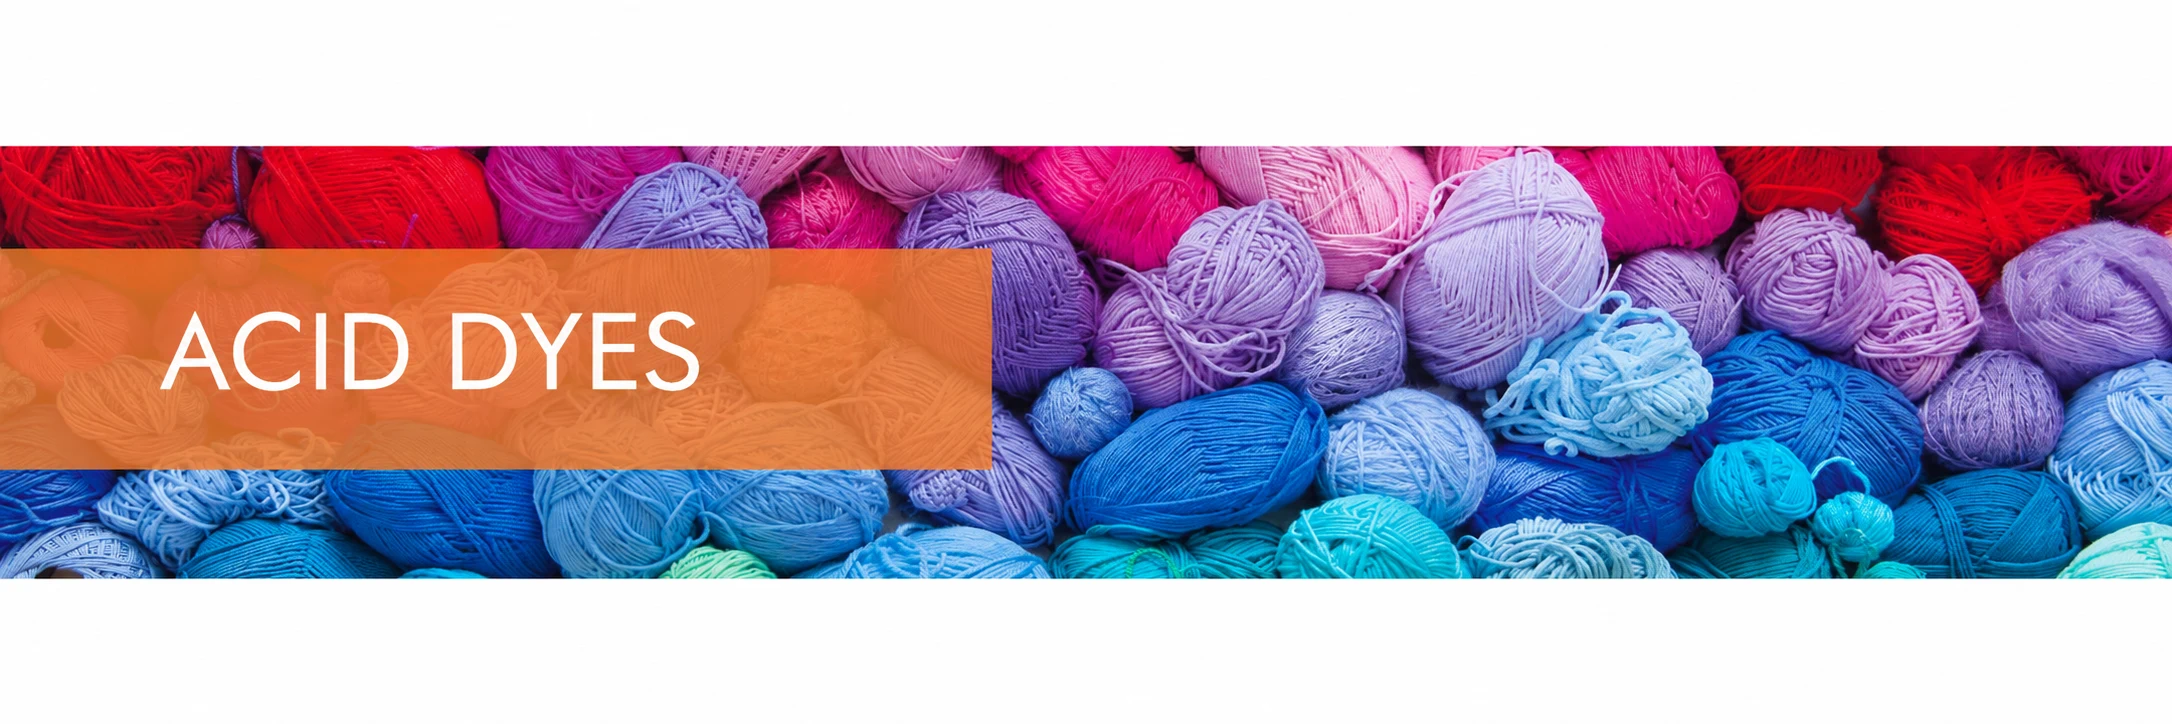
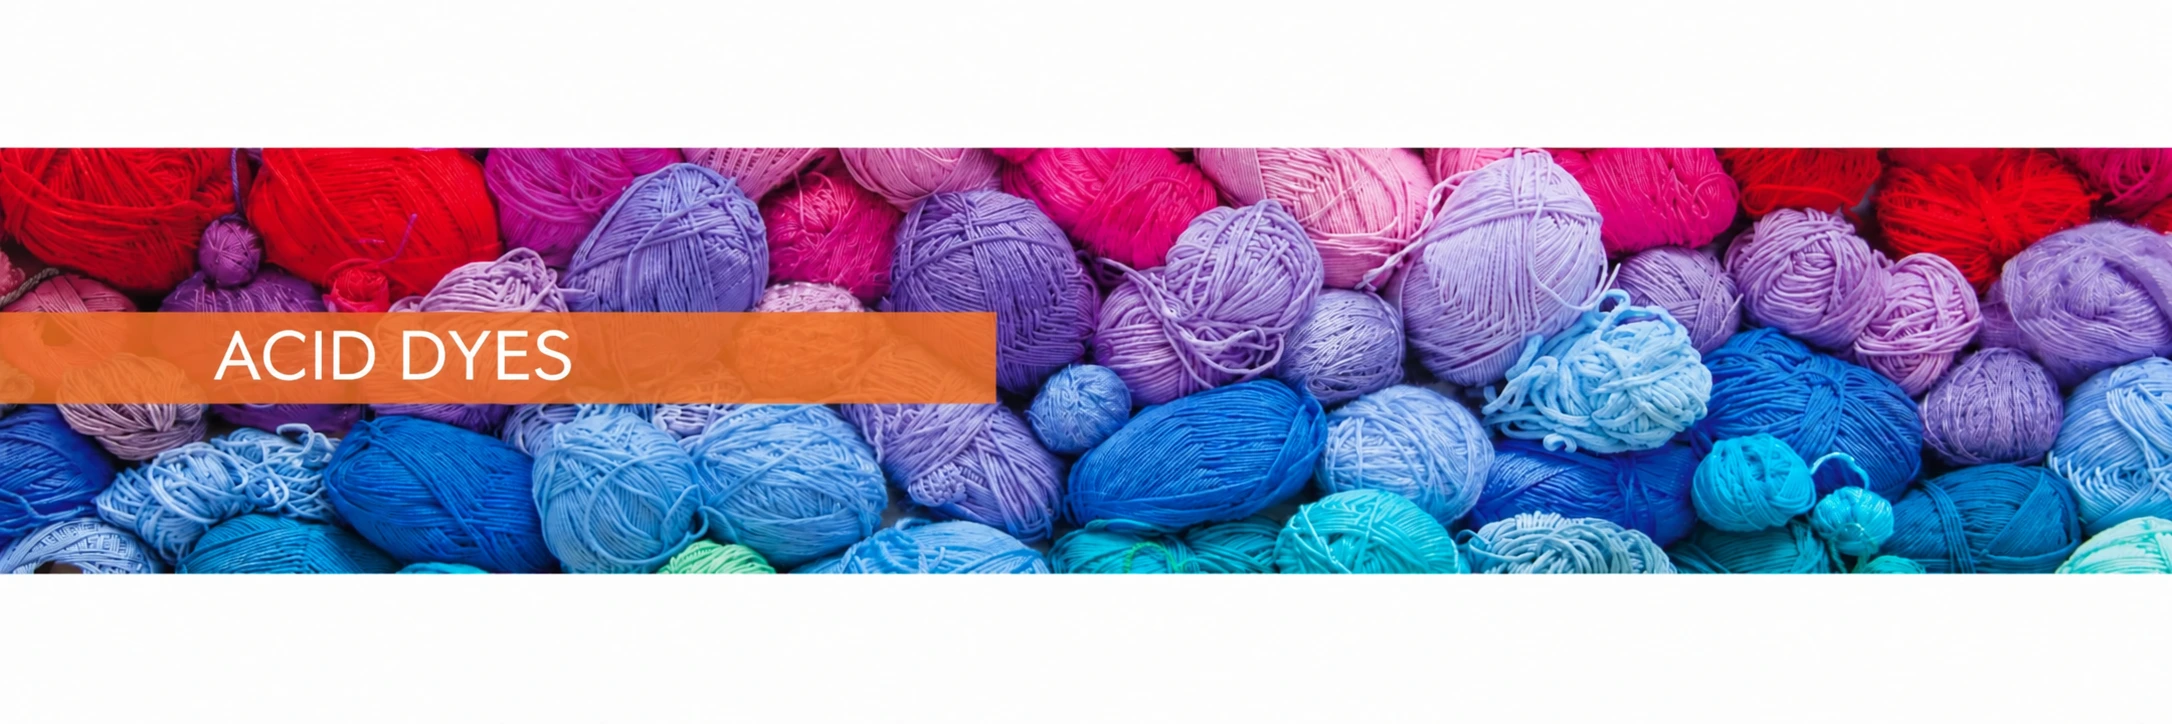
feat: add main stylesheet, product pages, images, and javascript assets

Changed region(s): [[0.0, 0.1823, 1.0, 0.8204], [0.9871, 0.3039, 1.0, 0.3343]]

diff --git a/pages/products/direct-dyes/index.html b/pages/products/direct-dyes/index.html
@@ -39,155 +39,7 @@
   <link rel="stylesheet" href="/assets/css/main.css?v=20261105" />
   <link rel="stylesheet" href="/assets/css/responsive.css?v=20261105" />
 
-  <!--
-<style>
-    /* UI Experiment: Direct Dyes Sustainability-Style Hero */
-    .direct-hero {
-      position: relative;
-      width: 100%;
-      min-height: 420px;
-      height: clamp(400px, 44vh, 480px);
-      display: flex;
-      align-items: center;
-      justify-content: center;
-      overflow: hidden;
-      background-color: #0b151b;
-      margin: 0;
-      padding: 0;
-    }
-
-    .direct-hero__media {
-      position: absolute;
-      top: 0;
-      left: 0;
-      width: 100%;
-      height: 100%;
-      z-index: 1;
-    }
-
-    .direct-hero__bg {
-      width: 100%;
-      height: 100%;
-      object-fit: cover;
-      object-position: center center;
-      display: block;
-      transform: scale(1.01);
-    }
-
-    .direct-hero__scrim {
-      position: absolute;
-      top: 0;
-      left: 0;
-      width: 100%;
-      height: 100%;
-      background: linear-gradient(
-        180deg,
-        rgba(10, 18, 26, 0.15) 0%,
-        rgba(10, 18, 26, 0.28) 50%,
-        rgba(10, 18, 26, 0.42) 100%
-      );
-      z-index: 2;
-      pointer-events: none;
-    }
-
-    .direct-hero__panel {
-      position: relative;
-      z-index: 3;
-      width: min(780px, calc(100% - 48px));
-      margin: 0 auto;
-      padding: 38px 48px;
-      background: rgba(14, 22, 30, 0.55);
-      -webkit-backdrop-filter: blur(10px);
-      backdrop-filter: blur(10px);
-      border: 1px solid rgba(255, 255, 255, 0.22);
-      border-radius: 6px;
-      box-shadow: 0 20px 48px rgba(0, 0, 0, 0.35);
-      text-align: center;
-      box-sizing: border-box;
-    }
-
-    .direct-hero__title {
-      font-family: var(--font-heading);
-      font-size: clamp(2rem, 3.2vw, 2.75rem);
-      font-weight: 700;
-      letter-spacing: 0.12em;
-      text-transform: uppercase;
-      color: #ffffff !important;
-      line-height: 1.2;
-      margin: 0 0 16px 0;
-      text-shadow: 0 2px 10px rgba(0, 0, 0, 0.5);
-    }
-
-    .direct-hero__apps {
-      display: flex;
-      flex-direction: column;
-      align-items: center;
-      gap: 6px;
-    }
-
-    .direct-hero__apps-label {
-      font-family: var(--font-heading);
-      font-size: 11px;
-      font-weight: 700;
-      letter-spacing: 0.18em;
-      text-transform: uppercase;
-      color: rgba(255, 255, 255, 0.82) !important;
-      margin: 0;
-    }
-
-    .direct-hero__apps-list {
-      font-family: var(--font-body);
-      font-size: clamp(14px, 1.2vw, 16px);
-      font-weight: 500;
-      color: #ffffff !important;
-      line-height: 1.5;
-      margin: 0;
-      letter-spacing: 0.02em;
-      text-shadow: 0 1px 4px rgba(0, 0, 0, 0.4);
-    }
-
-    @media (max-width: 768px) {
-      .direct-hero {
-        min-height: 280px;
-        height: clamp(280px, 45vh, 340px);
-      }
-
-      .direct-hero__panel {
-        width: min(92%, calc(100% - 32px));
-        padding: 24px 20px;
-        border-radius: 6px;
-      }
-
-      .direct-hero__title {
-        font-size: clamp(1.4rem, 6vw, 1.85rem);
-        letter-spacing: 0.08em;
-        margin-bottom: 12px;
-      }
-
-      .direct-hero__apps-label {
-        font-size: 10px;
-        letter-spacing: 0.14em;
-      }
-
-      .direct-hero__apps-list {
-        font-size: 13px;
-        line-height: 1.45;
-      }
-    }
-
-    @media (max-width: 480px) {
-      .direct-hero {
-        min-height: 260px;
-        height: 280px;
-      }
-
-      .direct-hero__panel {
-        padding: 20px 16px;
-      }
-    }
-  </style>
--->
-
+  
   <!-- JSON-LD Structured Data -->
   <script type="application/ld+json">
   {
@@ -224,7 +76,73 @@
   <!-- Scroll Progress -->
   <div class="scroll-progress" aria-hidden="true"></div>
 
-      <!-- ========== DYES SHOWCASE GRID ========== -->
+      
+  <!-- ========== NAVIGATION ========== -->
+  <nav class="nav is-scrolled" id="nav">
+    <div class="nav__inner">
+      <a href="/" class="nav__logo"><img src="/assets/images/logo-no-bg.webp" alt="K. Patel Logo" /></a>
+      <div class="nav__links">
+        <a href="/pages/about/" class="nav__link">About Us</a>
+        <a href="/#solutions" class="nav__link">Products</a>
+        <a href="/#applications" class="nav__link">Application</a>
+        <a href="/#operations" class="nav__link">Infrastructure</a>
+        <a href="/sustainability" class="nav__link">Sustainability</a>
+        <a href="/csr" class="nav__link">CSR</a>
+      </div>
+      <a href="/#contact-section" class="nav__cta">Contact</a>
+      <button class="nav__toggle" aria-label="Open menu">
+        <span></span><span></span><span></span>
+      </button>
+    </div>
+  </nav>
+
+  <!-- Mobile Nav Overlay -->
+  <div class="nav__mobile m-menu" id="mobile-nav" aria-hidden="true">
+    <div class="m-menu__top">
+      <a href="/" class="m-header__logo">
+        <img src="/assets/images/logo-no-bg.webp" alt="K. Patel Logo" style="height: 30px;" />
+      </a>
+      <button class="nav__mobile-close m-menu__close" aria-label="Close navigation menu">&times;</button>
+    </div>
+    <nav class="m-menu__nav">
+      <a href="/pages/about/" class="m-menu__link">About Us <span class="m-menu__arrow">&rarr;</span></a>
+      <a href="/pages/home/#m-products" class="m-menu__link">Products <span class="m-menu__arrow">&rarr;</span></a>
+      <a href="/pages/home/#m-applications" class="m-menu__link">Applications <span class="m-menu__arrow">&rarr;</span></a>
+      <a href="/pages/home/#m-infrastructure" class="m-menu__link">Infrastructure <span class="m-menu__arrow">&rarr;</span></a>
+      <a href="/sustainability" class="m-menu__link">Sustainability <span class="m-menu__arrow">&rarr;</span></a>
+      <a href="/csr" class="m-menu__link">CSR <span class="m-menu__arrow">&rarr;</span></a>
+      <a href="/pages/contact/" class="m-menu__link">Contact <span class="m-menu__arrow">&rarr;</span></a>
+    </nav>
+    <div class="m-menu__footer">
+      <div class="m-menu__contact-item">
+        <a href="tel:+912248822900">+91-22-4882 2900</a>
+      </div>
+      <div class="m-menu__contact-item">
+        <a href="mailto:sales@kpateldyes.com">sales@kpateldyes.com</a>
+      </div>
+    </div>
+  </div>
+
+  <main>
+    <!-- ========== PRODUCT HERO ========== -->
+    <section class="product-hero product-hero--full-width">
+      <div class="product-hero__image-wrap">
+        <picture class="product-hero__picture">
+          <source media="(min-width: 769px)" srcset="/assets/images/products/vertical-header-img/directdyes-vertical.webp" />
+          <img fetchpriority="high" loading="eager" src="/assets/images/products/header-img/direct.webp" alt="Direct Dyes" class="product-hero__image" width="1500" height="377" />
+        </picture>
+        <h1 class="visually-hidden">Direct Dyes</h1>
+      </div>
+
+      <div class="container">
+        <div class="product-key-apps">
+          <span class="product-key-apps__label">Key Applications:</span>
+          <p class="product-key-apps__text">Paper, Textiles, Leather, Ink, Wood &amp; others</p>
+        </div>
+      </div>
+    </section>
+
+    <!-- ========== DYES SHOWCASE GRID ========== -->
     <section class="product-showcase">
       <div class="container">
         <!-- 17 Direct Dyes Brochure Table -->

diff --git a/assets/css/main.css b/assets/css/main.css
@@ -4094,6 +4094,13 @@ main > .product-hero--full-width,
   box-shadow: none;
 }
 
+@media (min-width: 1024px) {
+  .product-hero--full-width > .product-hero__image-wrap img[alt="Pigments"],
+  .product-hero--full-width > .product-hero__image-wrap .product-hero__image--pigments {
+    height: 110%;
+  }
+}
+
 @media (min-width: 1025px) {
   .product-hero--full-width .container {
     max-width: var(--container-max);
@@ -4501,6 +4508,15 @@ main > .product-hero--full-width,
   box-shadow: 0 10px 30px rgba(47, 79, 79, 0.15);
 }
 
+@media (max-width: 992px) {
+  .product-quote-cta {
+    flex-direction: column;
+    align-items: flex-start;
+    padding: 36px 28px;
+    gap: 20px;
+  }
+}
+
 @media (max-width: 768px) {
   .product-quote-cta {
     flex-direction: column;
@@ -4511,15 +4527,16 @@ main > .product-hero--full-width,
 
 .product-quote-cta__title {
   font-family: var(--font-heading);
-  font-size: clamp(1.5rem, 2.5vw, 2rem);
+  font-size: clamp(1.2rem, 1.65vw, 1.75rem);
   font-weight: 700;
+  line-height: 1.35;
   margin-bottom: 8px;
 }
 
 .product-quote-cta__text {
   font-size: 14.5px;
   color: rgba(255, 255, 255, 0.8);
-  max-width: 540px;
+  max-width: 680px;
   line-height: 1.6;
 }
 

diff --git a/pages/products/pigments/index.html b/pages/products/pigments/index.html
@@ -127,7 +127,7 @@
       <div class="product-hero__image-wrap">
         <picture class="product-hero__picture">
           <source media="(min-width: 769px)" srcset="/assets/images/products/vertical-header-img/pigments-vertical.webp" />
-          <img fetchpriority="high" loading="eager" src="/assets/images/products/header-img/pigments.webp" alt="Pigments" class="product-hero__image" width="1502" height="375" />
+          <img fetchpriority="high" loading="eager" src="/assets/images/products/header-img/pigments.webp" alt="Pigments" class="product-hero__image product-hero__image--pigments" width="1502" height="375" />
         </picture>
         <h1 class="visually-hidden">Pigments</h1>
       </div>

diff --git a/assets/js/main.js b/assets/js/main.js
@@ -176,8 +176,8 @@ function initSmoothScroll() {
       const navHeight = document.querySelector('.nav')?.offsetHeight || 0;
       let offset = 0;
       if (hash === '#solutions' || hash === '#products') {
-        // Natural alignment below fixed navbar without clipping section header or eyebrow
-        offset = 0;
+        // Option A: Scroll 150px further on laptops/desktops so Row 1 and Row 2 of product cards sit fully above fold
+        offset = window.innerWidth >= 1024 ? 150 : 0;
       } else if (hash === '#industries' || hash === '#applications') {
         // Align flush below fixed navbar so eyebrow and header are completely visible
         offset = 0;
